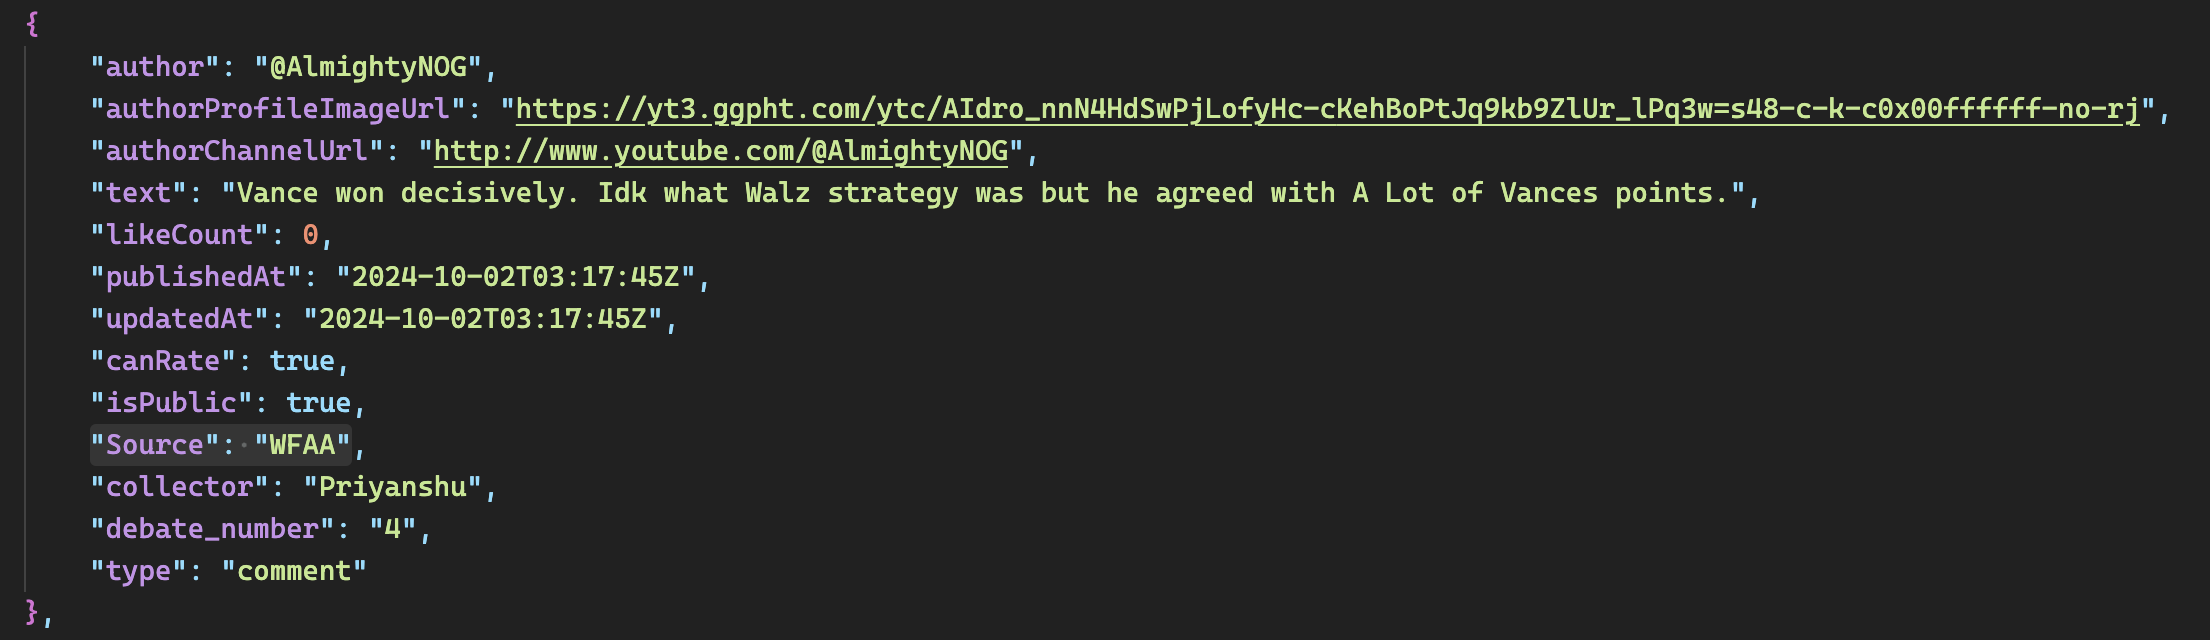
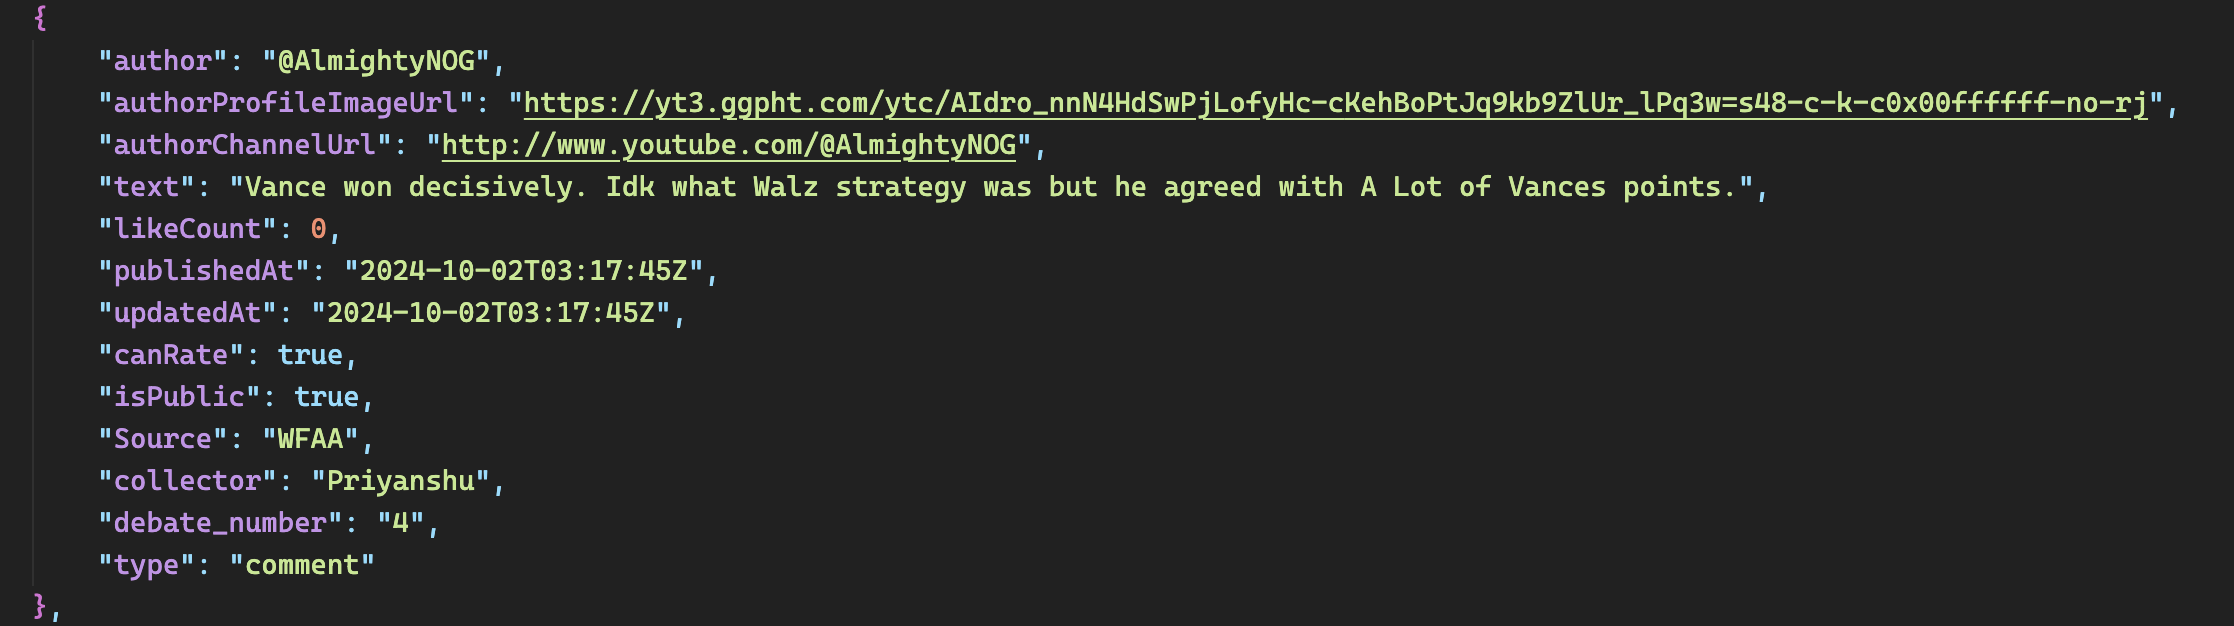
wfaa commit

diff --git a/README.md b/README.md
@@ -231,7 +231,7 @@ Once all datasets were standardized, merged, and cleaned, I had a unified datase
 <p align="center">
   <img src="Debate 4 comment.png" alt="Sample comment" />
   <br>
-  <em>Sample comment from Debate 4</em>
+  <em>Sample comment from Debate 4 - 'WFAA' news network</em>
 </p>
 
 
